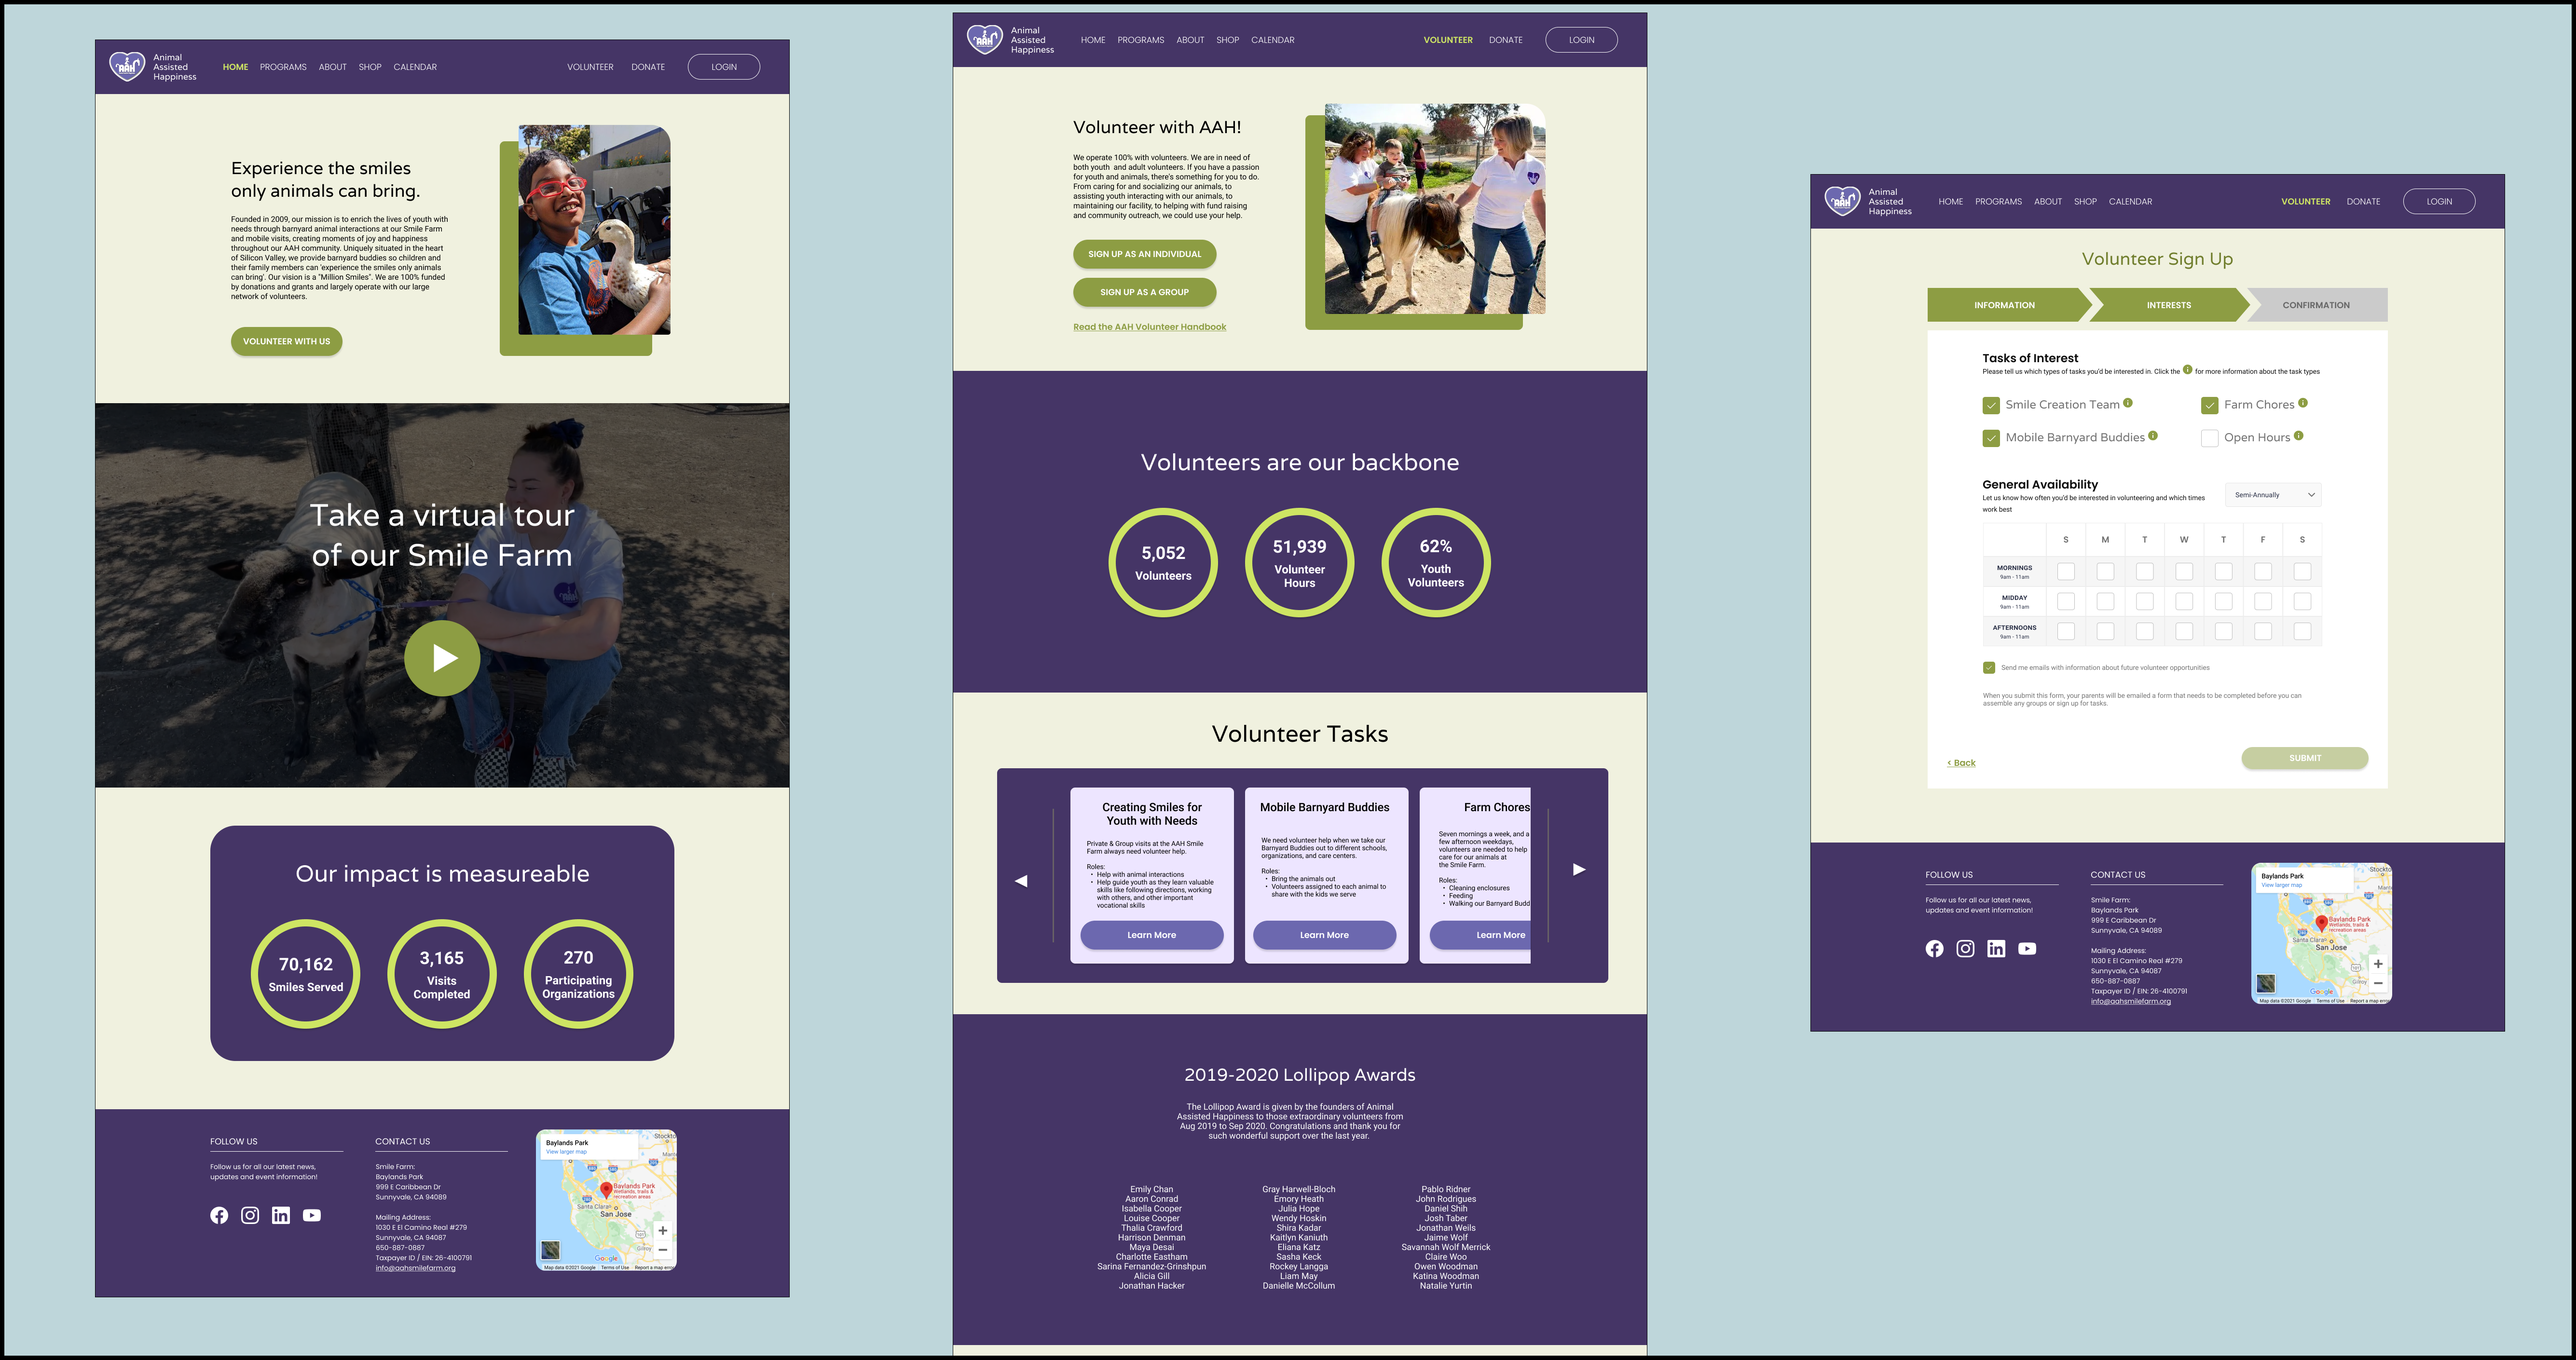
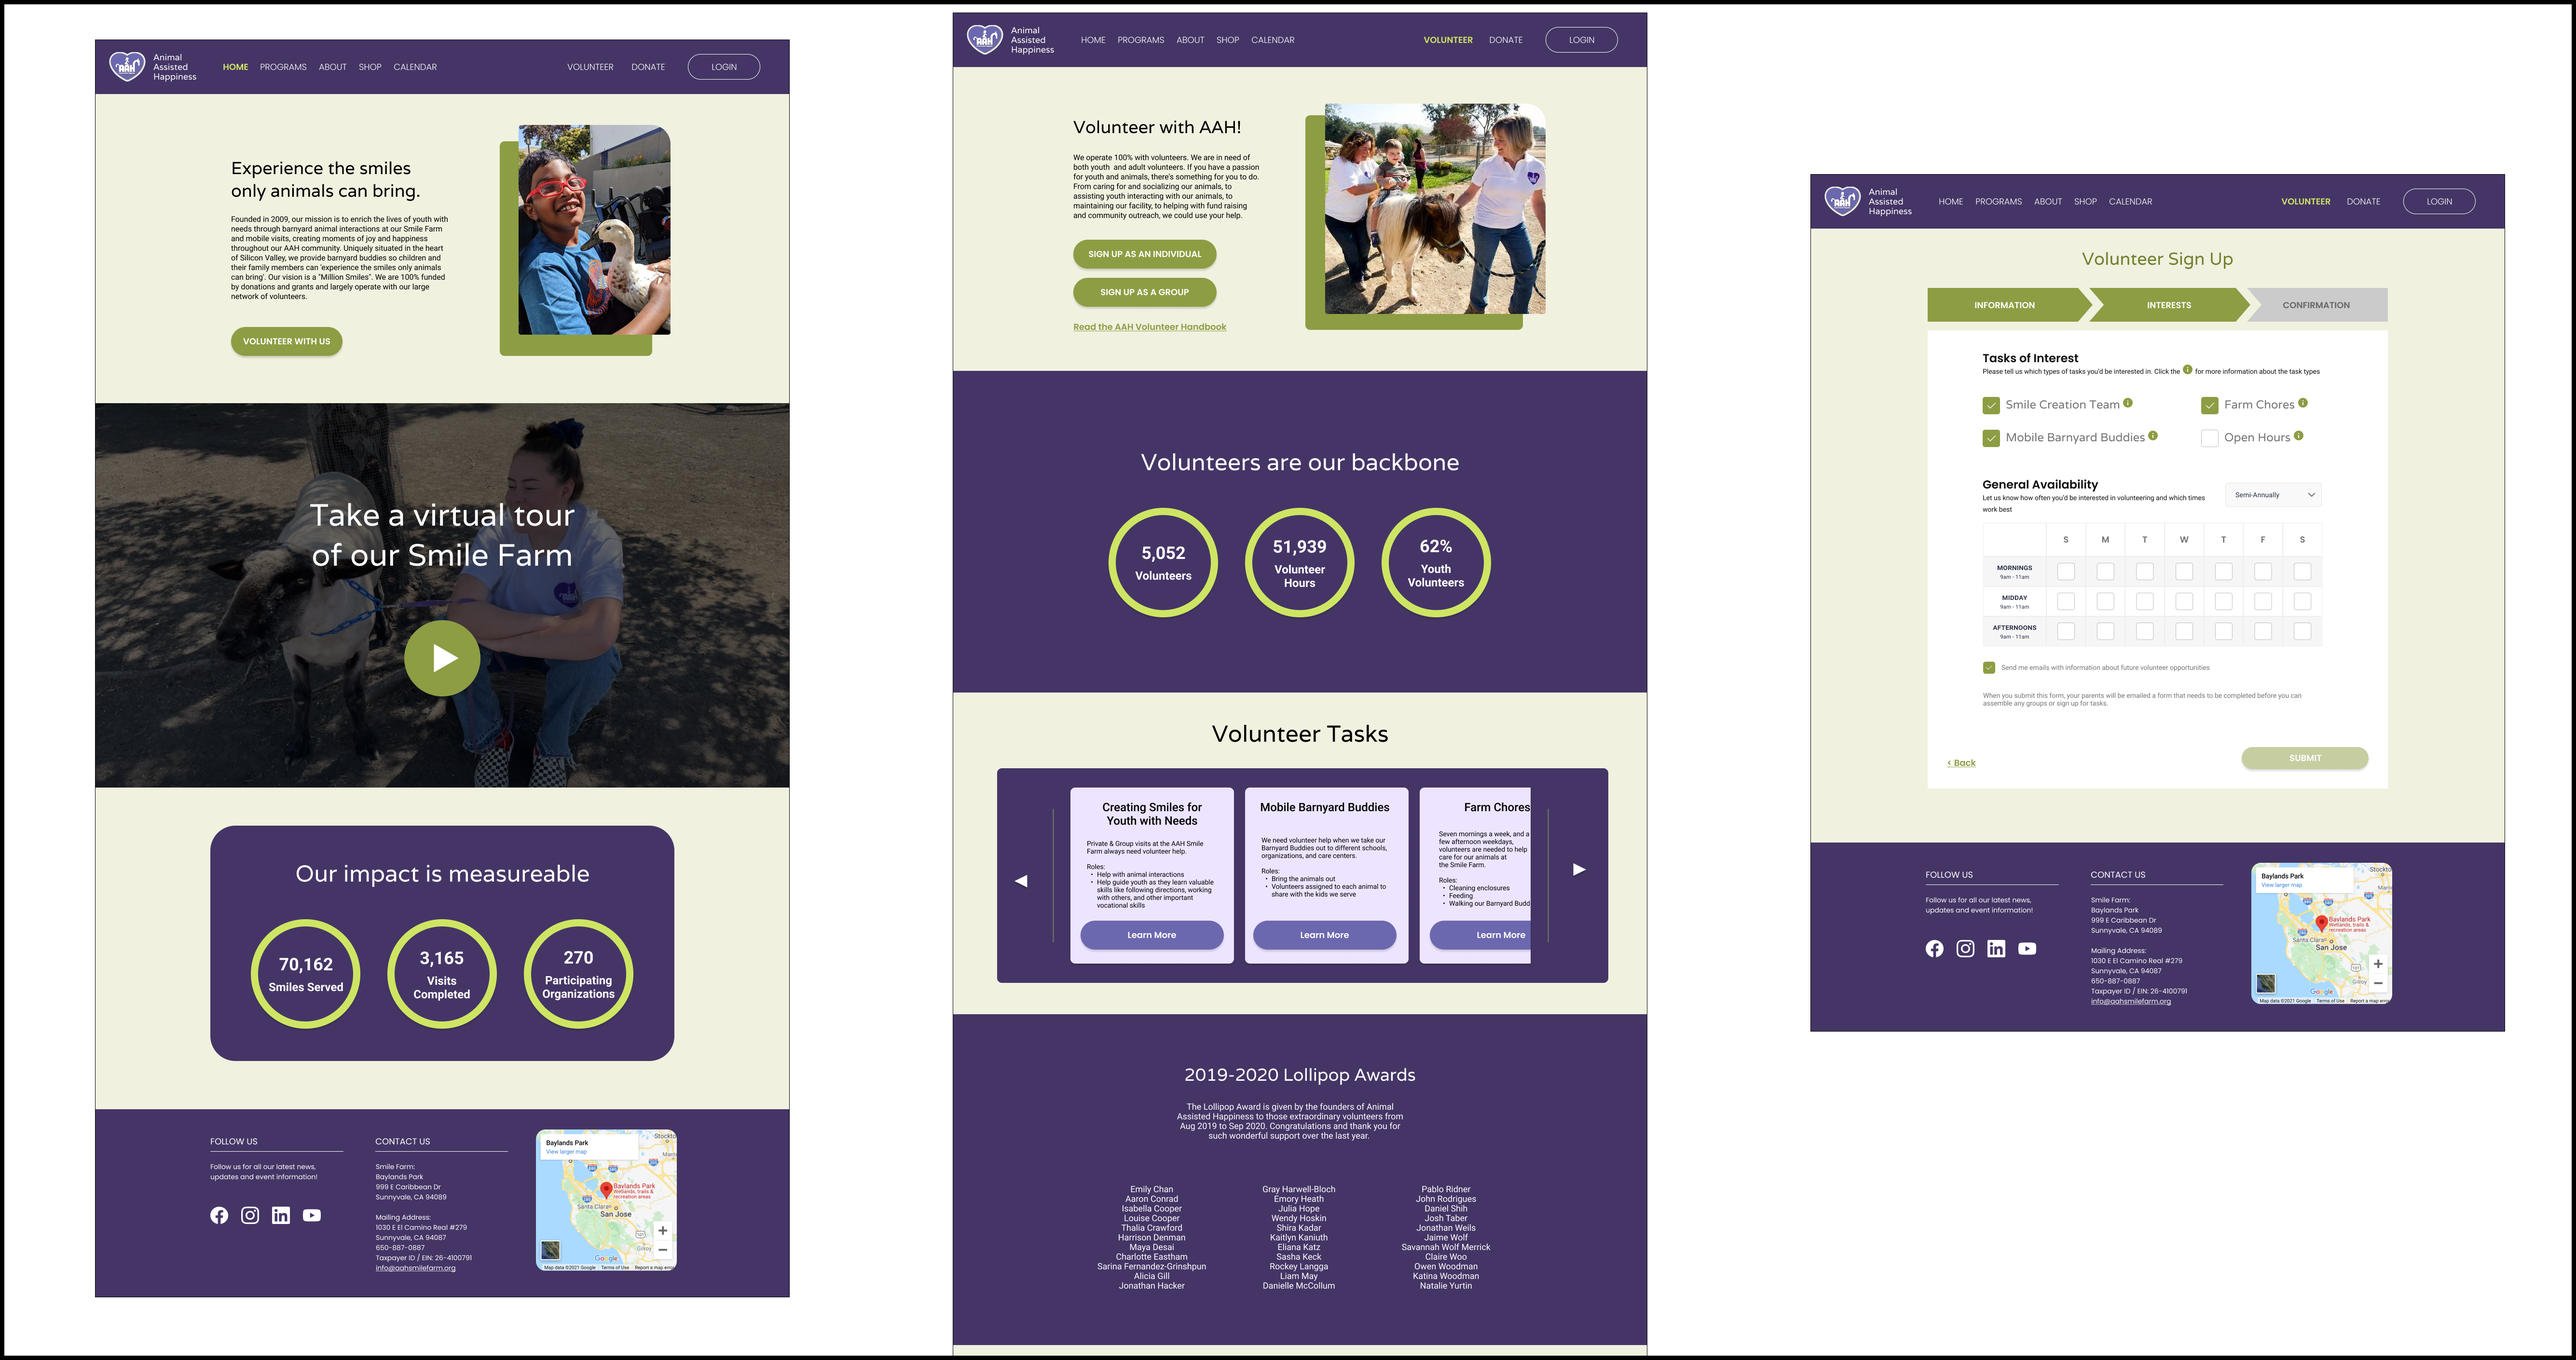
cleaned up a bit

diff --git a/index.html b/index.html
@@ -204,7 +204,7 @@
                                 </div>
                             </div>
                         </div>
-                        <div class="section dark" style="padding-top:70px; padding-bottom:0px; background-image:url(content/webmaster/images/home_webmaster_section2_bgd.jpg); background-repeat:no-repeat; background-position:center top;">
+                        <div class="section dark" style="padding-top:60px; padding-bottom:0px; background-image:url(content/webmaster/images/home_webmaster_section2_bgd.jpg); background-repeat:no-repeat; background-position:center top;">
                             <div class="section_wrapper clearfix">
                                 <div class="items_group clearfix">
                                     <!-- Page Title-->

diff --git a/content/webmaster/contact.html b/content/webmaster/contact.html
@@ -209,7 +209,7 @@
                                                         <span><textarea name="body" id="body" style="width:100%;" rows="10" aria-invalid="false"></textarea></span>
                                                     </div>
                                                     <div class="column one">
-                                                        <input type="button" value="Send Message" id="submit" onClick="return check_values();">
+                                                        <input type="button" value="Send" id="submit" onClick="return check_values();">
                                                     </div>
                                                 </form>
                                             </div>
